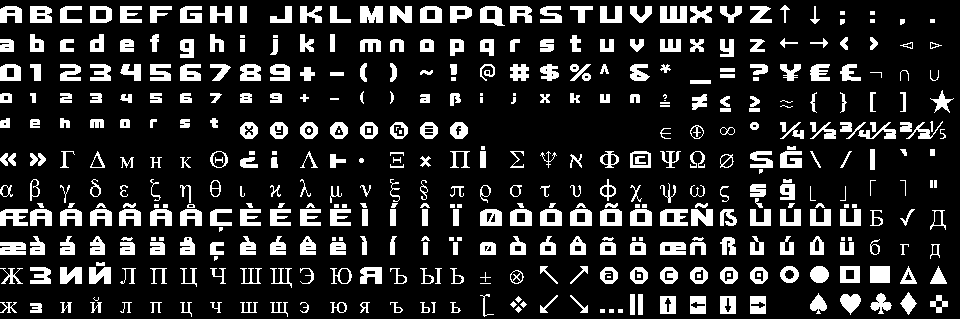
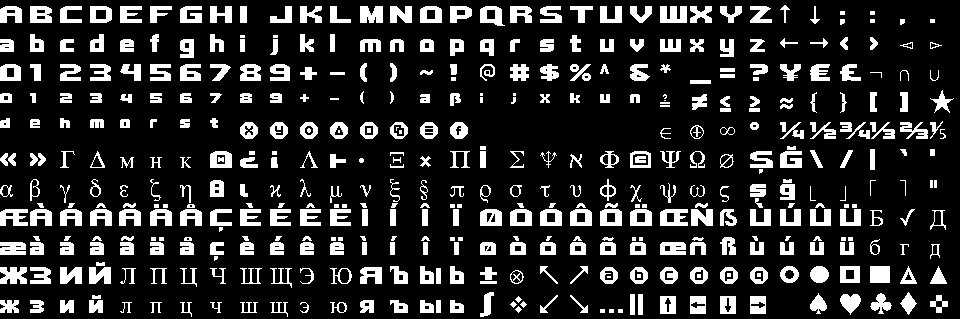
Beta update 4

diff --git a/doc/manual.md.html b/doc/manual.md.html
@@ -4646,7 +4646,7 @@ Change Log
 
 Changes for both the specification and implementation in each release.
 
-2019 July 25: Beta update 4
+2019 August 1: Beta update 4
 
 - Fixed self-overdraw in disk and circle rendering
 - `direction()` now returns a non-unit vector if the input is less than 10<sup>-10</sup>
@@ -4655,7 +4655,6 @@ Changes for both the specification and implementation in each release.
 - Added `CLAMP()`, `RGBA_LERP()` and `RGB_LERP()`
 - Fixed compilation bug with Greek letter identifiers
 - Made underscore-"subscripted" Greek letters legal identifiers. For example: <code>θ_interior</code>, <code>μ_p</code>
-
 
 
 2019 July 17: Beta update 3
